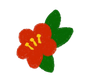
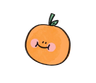
Add files via upload

Changed region(s): [[0.1562, 0.0964, 0.7812, 0.8916]]

diff --git a/sw.js b/sw.js
@@ -1,4 +1,4 @@
-const CACHE_NAME = 'wetravel-v87';
+const CACHE_NAME = 'wetravel-v89';
 const ASSETS = [
   './index.html',
   './manifest.json',
